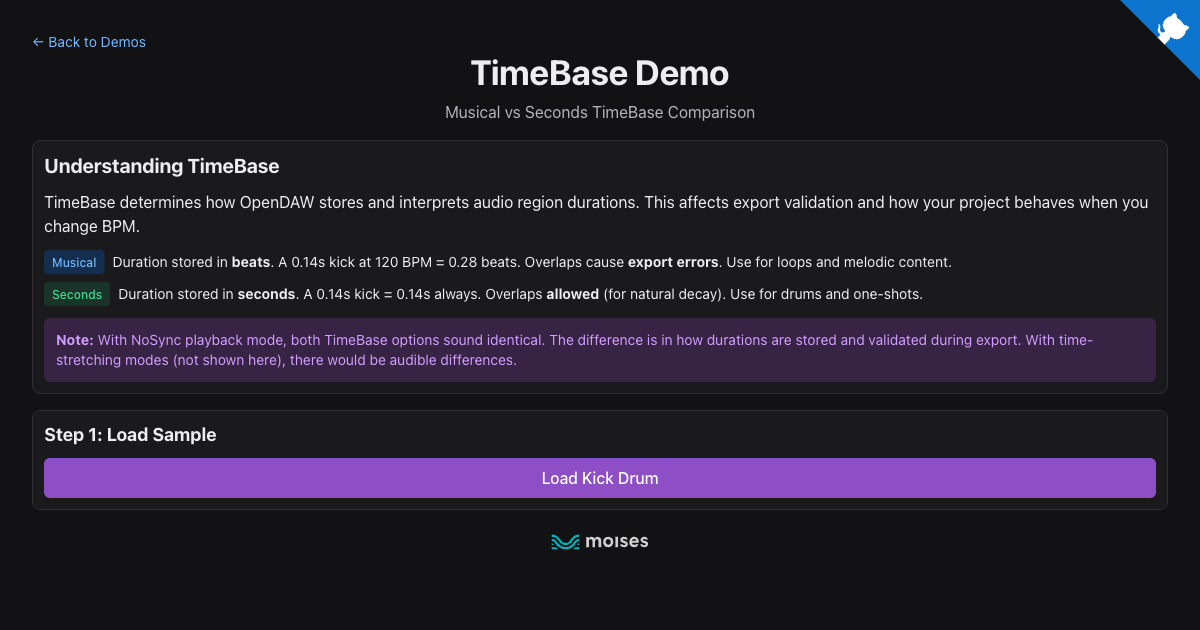
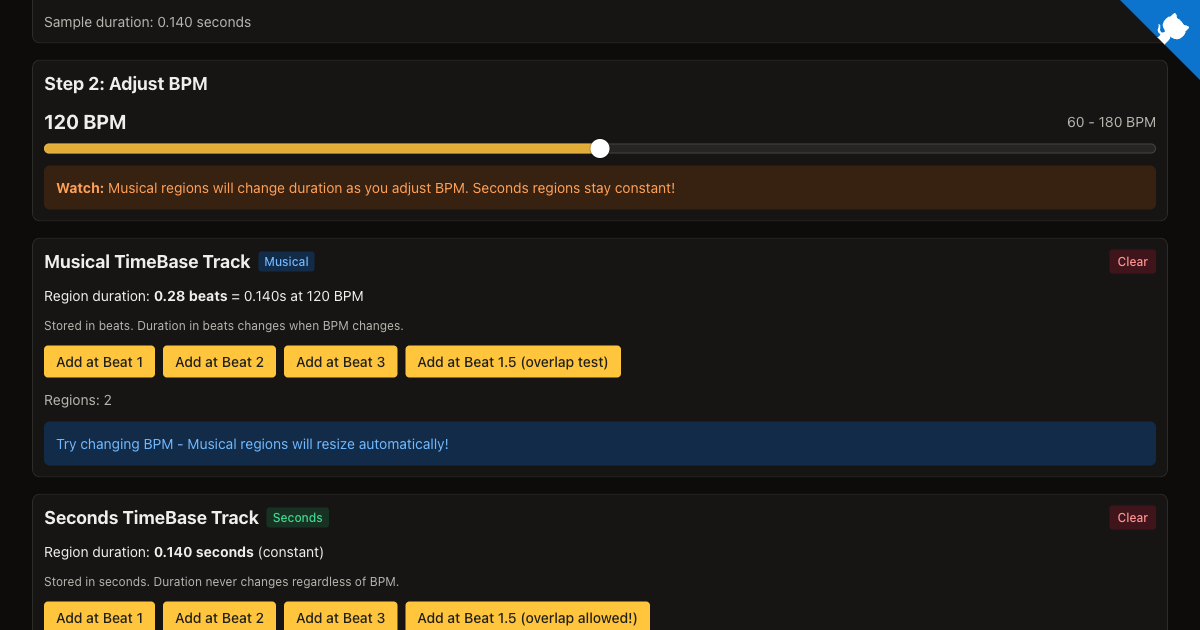
feat: apply mastering-console design to timebase demo (wave 2)
- HTML: IBM Plex Mono font preconnects, body background #0d0c0a, theme-color #e8a33d
- TSX: CONSOLE_STYLES injected, accentColor purple → amber, mc-kicker/mc-title/mc-intro header
- Intro Card (Understanding TimeBase) → section.mc-anchors with SDK reference content
- Key Takeaways Card → section.mc-anchors (unconditional, moved below playback controls)
- Removed Separator import (no longer used after Key Takeaways → mc-anchors)
- No mc-lattice-frame: no standalone canvas in this demo
- fix: remove debug console.log statements from loadSample and sampleLoader subscribe
- fix: audioFileBox rapid-click race — use audioFileBoxRef (useRef) for synchronous
  lookup inside editing.modify() so concurrent beat-add clicks share the already-staged
  AudioFileBox instead of each calling AudioFileBox.create() with the same UUID
- og-image regenerated 1200×630 (BPM slider + Musical/Seconds track cards both visible,
  amber accent, region count and duration divergence readable)

diff --git a/src/demos/playback/timebase-demo.tsx b/src/demos/playback/timebase-demo.tsx
@@ -1,4 +1,4 @@
-import React, { useEffect, useState, useCallback } from "react";
+import React, { useEffect, useState, useCallback, useRef } from "react";
 import { createRoot } from "react-dom/client";
 import { UUID } from "@opendaw/lib-std";
 import { PPQN, TimeBase } from "@opendaw/lib-dsp";
@@ -23,10 +23,10 @@ import {
   Flex,
   Card,
   Badge,
-  Separator,
   Slider,
   Callout
 } from "@radix-ui/themes";
+import { CONSOLE_STYLES } from "@/lib/design/consoleTheme";
 
 const { Quarter } = PPQN;
 
@@ -61,6 +61,9 @@ function TimeBaseDemo() {
 
   const [audioFileUUID, setAudioFileUUID] = useState<UUID.Bytes | null>(null);
   const [audioFileBox, setAudioFileBox] = useState<AudioFileBox | null>(null);
+  // Ref mirrors audioFileBox so rapid-click handlers see the already-staged box
+  // synchronously without waiting for React state to flush.
+  const audioFileBoxRef = useRef<AudioFileBox | null>(null);
   const [sampleDurationInSeconds, setSampleDurationInSeconds] = useState(0);
 
   // Create audio buffers map for sample manager
@@ -108,9 +111,7 @@ function TimeBaseDemo() {
 
     const sampleLoader = project.sampleManager.getOrCreate(audioFileUUID);
     const subscription = sampleLoader.subscribe((state) => {
-      console.log('Sample loader state:', state.type);
       if (state.type === 'loaded') {
-        console.log('Sample fully loaded by sample manager');
         setSampleLoaded(true); // Mark as loaded only when sample manager confirms
       }
     });
@@ -122,20 +123,14 @@ function TimeBaseDemo() {
 
   // Load sample and create tracks
   const loadSample = useCallback(async () => {
-    console.log("loadSample called, project:", !!project, "audioContext:", !!audioContext);
-    if (!project || !audioContext) {
-      console.error("Cannot load sample - missing project or audioContext");
-      return;
-    }
+    if (!project || !audioContext) return;
 
     try {
-      console.log("Loading audio file...");
       // Load a short kick drum sample for TimeBase demonstration
       const audioBuffer = await loadAudioFile(
         audioContext,
         "/audio/90sSamplePack/Kick/Kick 1.wav"
       );
-      console.log("Audio file loaded successfully, duration:", audioBuffer.duration);
 
       const duration = audioBuffer.duration;
       setSampleDurationInSeconds(duration);
@@ -198,13 +193,14 @@ function TimeBaseDemo() {
       project.editing.modify(() => {
         const boxGraph = project.boxGraph;
 
-        // Create AudioFileBox if it doesn't exist yet
-        let fileBox = audioFileBox;
+        // Use ref for synchronous lookup so rapid clicks see the already-staged box
+        let fileBox = audioFileBoxRef.current;
         if (!fileBox) {
           fileBox = AudioFileBox.create(boxGraph, audioFileUUID, (box) => {
             box.fileName.setValue("Kick 1.wav");
             box.endInSeconds.setValue(sampleDurationInSeconds);
           });
+          audioFileBoxRef.current = fileBox;
           setAudioFileBox(fileBox);
         }
 
@@ -245,7 +241,7 @@ function TimeBaseDemo() {
         }));
       });
     },
-    [project, musicalTrackInfo, audioFileUUID, audioFileBox, bpm, sampleDurationInSeconds]
+    [project, musicalTrackInfo, audioFileUUID, bpm, sampleDurationInSeconds]
   );
 
   // Add region to Seconds track
@@ -256,13 +252,14 @@ function TimeBaseDemo() {
       project.editing.modify(() => {
         const boxGraph = project.boxGraph;
 
-        // Create AudioFileBox if it doesn't exist yet
-        let fileBox = audioFileBox;
+        // Use ref for synchronous lookup so rapid clicks see the already-staged box
+        let fileBox = audioFileBoxRef.current;
         if (!fileBox) {
           fileBox = AudioFileBox.create(boxGraph, audioFileUUID, (box) => {
             box.fileName.setValue("Kick 1.wav");
             box.endInSeconds.setValue(sampleDurationInSeconds);
           });
+          audioFileBoxRef.current = fileBox;
           setAudioFileBox(fileBox);
         }
 
@@ -304,7 +301,7 @@ function TimeBaseDemo() {
         }));
       });
     },
-    [project, secondsTrackInfo, audioFileUUID, audioFileBox, bpm, sampleDurationInSeconds]
+    [project, secondsTrackInfo, audioFileUUID, bpm, sampleDurationInSeconds]
   );
 
   // Update BPM
@@ -345,14 +342,15 @@ function TimeBaseDemo() {
       });
 
       // If both tracks are empty after clearing, delete the AudioFileBox
-      if (secondsTrackInfo && secondsTrackInfo.regions.length === 0 && audioFileBox) {
-        audioFileBox.delete();
+      if (secondsTrackInfo && secondsTrackInfo.regions.length === 0 && audioFileBoxRef.current) {
+        audioFileBoxRef.current.delete();
+        audioFileBoxRef.current = null;
         setAudioFileBox(null);
       }
     });
 
     setMusicalTrackInfo((prev) => ({ ...prev!, regions: [] }));
-  }, [project, musicalTrackInfo, secondsTrackInfo, audioFileBox]);
+  }, [project, musicalTrackInfo, secondsTrackInfo]);
 
   const clearSecondsTrack = useCallback(() => {
     if (!project || !secondsTrackInfo) return;
@@ -363,14 +361,15 @@ function TimeBaseDemo() {
       });
 
       // If both tracks are empty after clearing, delete the AudioFileBox
-      if (musicalTrackInfo && musicalTrackInfo.regions.length === 0 && audioFileBox) {
-        audioFileBox.delete();
+      if (musicalTrackInfo && musicalTrackInfo.regions.length === 0 && audioFileBoxRef.current) {
+        audioFileBoxRef.current.delete();
+        audioFileBoxRef.current = null;
         setAudioFileBox(null);
       }
     });
 
     setSecondsTrackInfo((prev) => ({ ...prev!, regions: [] }));
-  }, [project, secondsTrackInfo, musicalTrackInfo, audioFileBox]);
+  }, [project, secondsTrackInfo, musicalTrackInfo]);
 
   // Playback controls provided by useTransportControls hook
 
@@ -383,61 +382,50 @@ function TimeBaseDemo() {
   const secondsDurationSeconds = sampleDurationInSeconds;
 
   return (
-    <Theme accentColor="purple" appearance="dark">
+    <Theme accentColor="amber" appearance="dark" style={{ background: "var(--mc-bg)" }}>
+      <style>{CONSOLE_STYLES}</style>
       <GitHubCorner />
       <Container size="4" style={{ paddingTop: "2rem", paddingBottom: "4rem" }}>
         <BackLink />
 
         <Flex direction="column" gap="4">
-          <Flex direction="column" gap="2" align="center">
-            
-            <Heading size="8" align="center">
-              TimeBase Demo
-            </Heading>
-            <Text size="3" color="gray" align="center">
-              Musical vs Seconds TimeBase Comparison
-            </Text>
-          </Flex>
+          <div>
+            <div className="mc-kicker">Playback — TimeBase · OpenDAW SDK</div>
+            <h1 className="mc-title" style={{ fontSize: "clamp(28px, 4.5vw, 44px)" }}>TIMEBASE</h1>
+            <p className="mc-intro">
+              <code>timeBase</code> determines how the SDK stores and interprets audio region{" "}
+              durations. <strong>Musical</strong>: <code>duration</code> and{" "}
+              <code>loopDuration</code> are stored in PPQN — they scale automatically when BPM
+              changes, and overlapping regions cause export validation errors.{" "}
+              <strong>Seconds</strong>: <code>duration</code> and <code>loopDuration</code> are
+              stored in seconds — they stay constant regardless of BPM, and overlaps are allowed
+              for natural audio decay. In both modes, <code>position</code> is always PPQN
+              (Int32).
+            </p>
+          </div>
 
-          {/* Introduction */}
-          <Card>
-            <Flex direction="column" gap="3">
-              <Heading size="5">Understanding TimeBase</Heading>
-              <Text>
-                TimeBase determines how OpenDAW stores and interprets audio region durations. This affects export validation and how your project behaves when you change BPM.
-              </Text>
-
-              <Flex direction="column" gap="2">
-                <Flex gap="2" align="center">
-                  <Badge color="blue" size="2">
-                    Musical
-                  </Badge>
-                  <Text size="2">
-                    Duration stored in <strong>beats</strong>. A 0.14s kick at 120 BPM = 0.28 beats.
-                    Overlaps cause <strong>export errors</strong>. Use for loops and melodic content.
-                  </Text>
-                </Flex>
-
-                <Flex gap="2" align="center">
-                  <Badge color="green" size="2">
-                    Seconds
-                  </Badge>
-                  <Text size="2">
-                    Duration stored in <strong>seconds</strong>. A 0.14s kick = 0.14s always.
-                    Overlaps <strong>allowed</strong> (for natural decay). Use for drums and one-shots.
-                  </Text>
-                </Flex>
-              </Flex>
-
-              <Callout.Root size="1">
-                <Callout.Text>
-                  <strong>Note:</strong> With NoSync playback mode, both TimeBase options sound identical.
-                  The difference is in how durations are stored and validated during export.
-                  With time-stretching modes (not shown here), there would be audible differences.
-                </Callout.Text>
-              </Callout.Root>
-            </Flex>
-          </Card>
+          {/* SDK context */}
+          <section className="mc-anchors">
+            <h2 className="mc-anchors-head">SDK reference</h2>
+            <p>
+              Set <code>box.timeBase.setValue(TimeBase.Musical)</code> and pass{" "}
+              <code>duration</code> in PPQN — computed via{" "}
+              <code>PPQN.secondsToPulses(seconds, bpm)</code>. For Seconds timeBase pass{" "}
+              <code>duration</code> directly in seconds. Both modes use{" "}
+              <code>box.position.setValue(beatPosition * Quarter)</code> — position is always
+              PPQN. The <code>project.copy()</code> validator deletes both regions when Musical
+              regions overlap; the live engine tolerates overlaps at runtime but offline render
+              and export produce silence with no error. Use Seconds timeBase (or separate Tape
+              tracks) for one-shots that need natural decay overlap.
+            </p>
+            <p>
+              With NoSync playback mode (the default when no <code>playMode</code> box is
+              attached), both timeBase values sound identical — the difference is in storage
+              unit and export validation only. Audible differences appear with time-stretching
+              play modes (<code>AudioTimeStretchBox</code>,{" "}
+              <code>AudioPitchStretchBox</code>).
+            </p>
+          </section>
 
           {/* Load Sample */}
           <Card>
@@ -625,44 +613,22 @@ function TimeBaseDemo() {
           )}
 
           {/* Key Takeaways */}
-          {sampleLoaded && (
-            <Card>
-              <Flex direction="column" gap="3">
-                <Heading size="4">Key Takeaways</Heading>
-
-                <Flex direction="column" gap="2">
-                  <Text size="2">
-                    <strong>Musical TimeBase:</strong>
-                  </Text>
-                  <ul style={{ marginLeft: "1.5rem", marginTop: "0.25rem" }}>
-                    <li>Duration in beats - automatically adjusts when BPM changes</li>
-                    <li>Overlapping regions are forbidden on export (validation error)</li>
-                    <li>Perfect for loops that need to stay in sync with tempo</li>
-                    <li>Use for: melodic content, loops, tempo-synced samples</li>
-                  </ul>
-
-                  <Text size="2" style={{ marginTop: "1rem" }}>
-                    <strong>Seconds TimeBase:</strong>
-                  </Text>
-                  <ul style={{ marginLeft: "1.5rem", marginTop: "0.25rem" }}>
-                    <li>Duration in seconds - stays constant regardless of BPM</li>
-                    <li>Overlapping regions are allowed</li>
-                    <li>Perfect for one-shot samples with natural decay</li>
-                    <li>Use for: drums, percussion, sound effects, vocals</li>
-                  </ul>
-                </Flex>
-
-                <Separator size="4" />
-
-                <Callout.Root color="red" size="1">
-                  <Callout.Text>
-                    <strong>Warning:</strong> If you see "Overlapping regions" errors
-                    during export, switch Musical regions to Seconds TimeBase!
-                  </Callout.Text>
-                </Callout.Root>
-              </Flex>
-            </Card>
-          )}
+          <section className="mc-anchors">
+            <h2 className="mc-anchors-head">When to use each timeBase</h2>
+            <p>
+              <strong>Musical</strong> — duration tracks tempo. Use for melodic content, loops,
+              and samples that must stay grid-aligned. Overlapping Musical regions on the same
+              track are forbidden on export (<code>project.copy()</code> deletes both with
+              &ldquo;Overlapping regions&rdquo; in the console and no error thrown).
+            </p>
+            <p>
+              <strong>Seconds</strong> — duration is constant. Use for drums, percussion, sound
+              effects, and one-shots whose natural decay should ring out regardless of BPM.
+              Overlaps are allowed. If you see &ldquo;Overlapping regions&rdquo; errors on
+              export, switch those regions to Seconds timeBase or move them to separate Tape
+              tracks.
+            </p>
+          </section>
         </Flex>
         <MoisesLogo />
       </Container>

diff --git a/timebase-demo.html b/timebase-demo.html
@@ -10,7 +10,7 @@
     <meta name="description" content="Understand the difference between Musical and Seconds TimeBase in OpenDAW. See how Musical regions change duration with BPM while Seconds regions stay constant." />
     <meta name="keywords" content="OpenDAW, timebase, musical time, seconds time, BPM, PPQN, audio regions, web audio, DAW" />
     <meta name="author" content="Moises AI" />
-    <meta name="theme-color" content="#30a46c" />
+    <meta name="theme-color" content="#e8a33d" />
 
     <!-- Canonical URL -->
     <link rel="canonical" href="https://opendaw-test.pages.dev/timebase-demo.html" />
@@ -32,14 +32,13 @@
     <meta name="twitter:image" content="https://opendaw-test.pages.dev/og-image-timebase.png" />
 
     <link rel="icon" type="image/svg+xml" href="/favicon.svg" />
+    <!-- crossorigin required: the dev server is COOP/COEP cross-origin isolated -->
+    <link rel="preconnect" href="https://fonts.googleapis.com" crossorigin/>
+    <link rel="preconnect" href="https://fonts.gstatic.com" crossorigin/>
+    <link rel="stylesheet" crossorigin
+          href="https://fonts.googleapis.com/css2?family=IBM+Plex+Mono:wght@400;600&display=swap"/>
     <style>
-        body {
-            margin: 0;
-            font-family: -apple-system, BlinkMacSystemFont, "Segoe UI", Roboto,
-                Oxygen, Ubuntu, Cantarell, sans-serif;
-            background: #111;
-            color: #fff;
-        }
+        body { background: #0d0c0a; }
     </style>
 </head>
 <body>